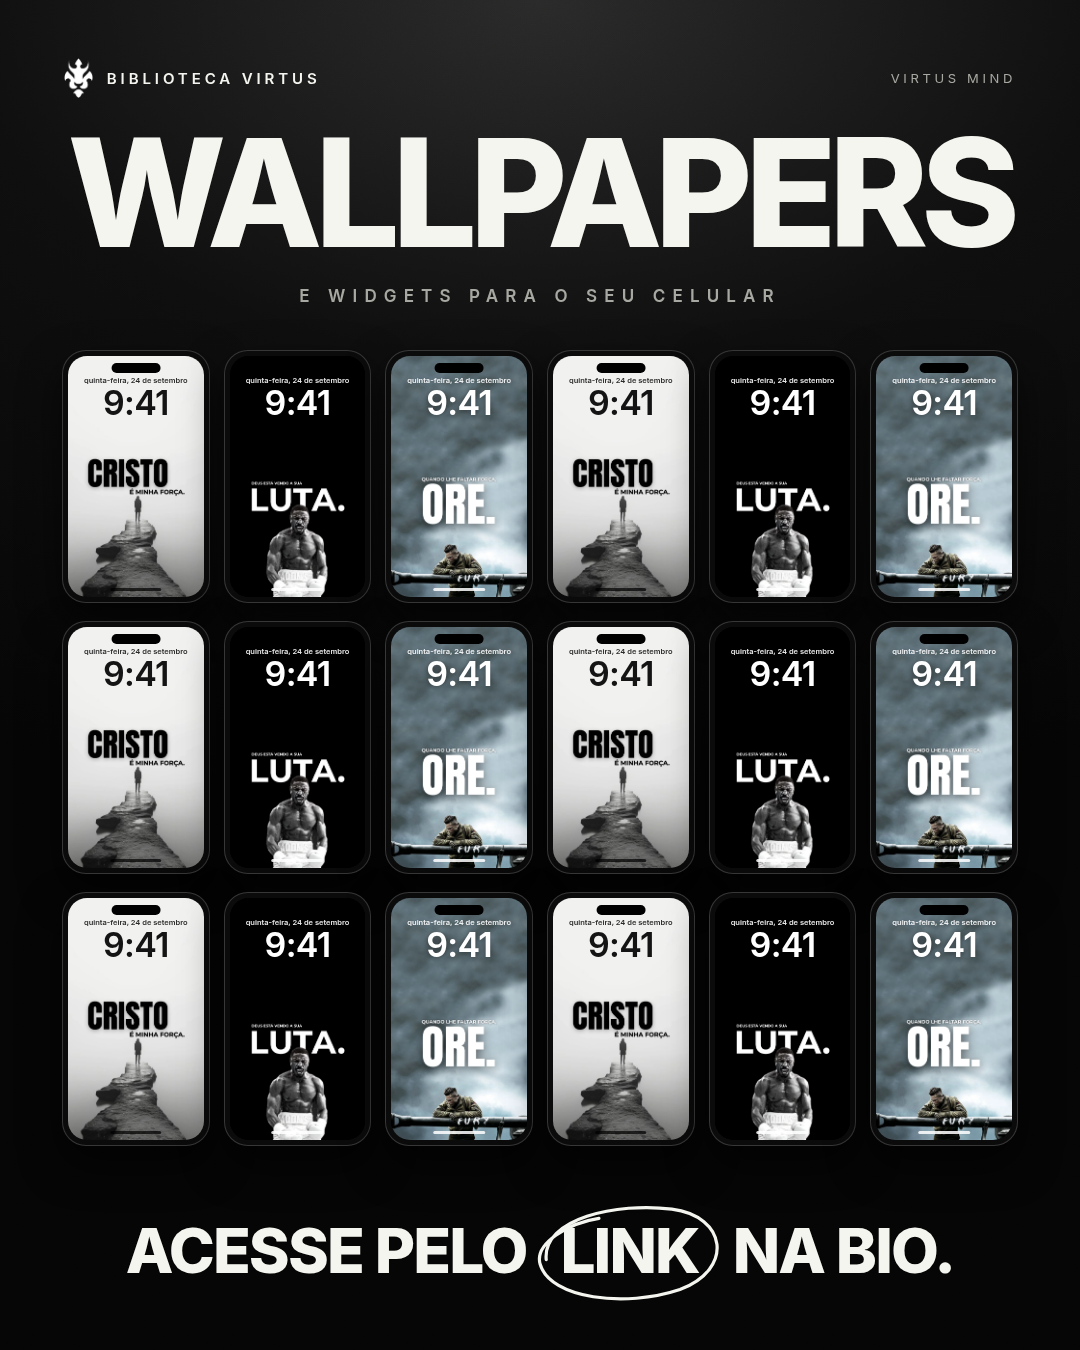
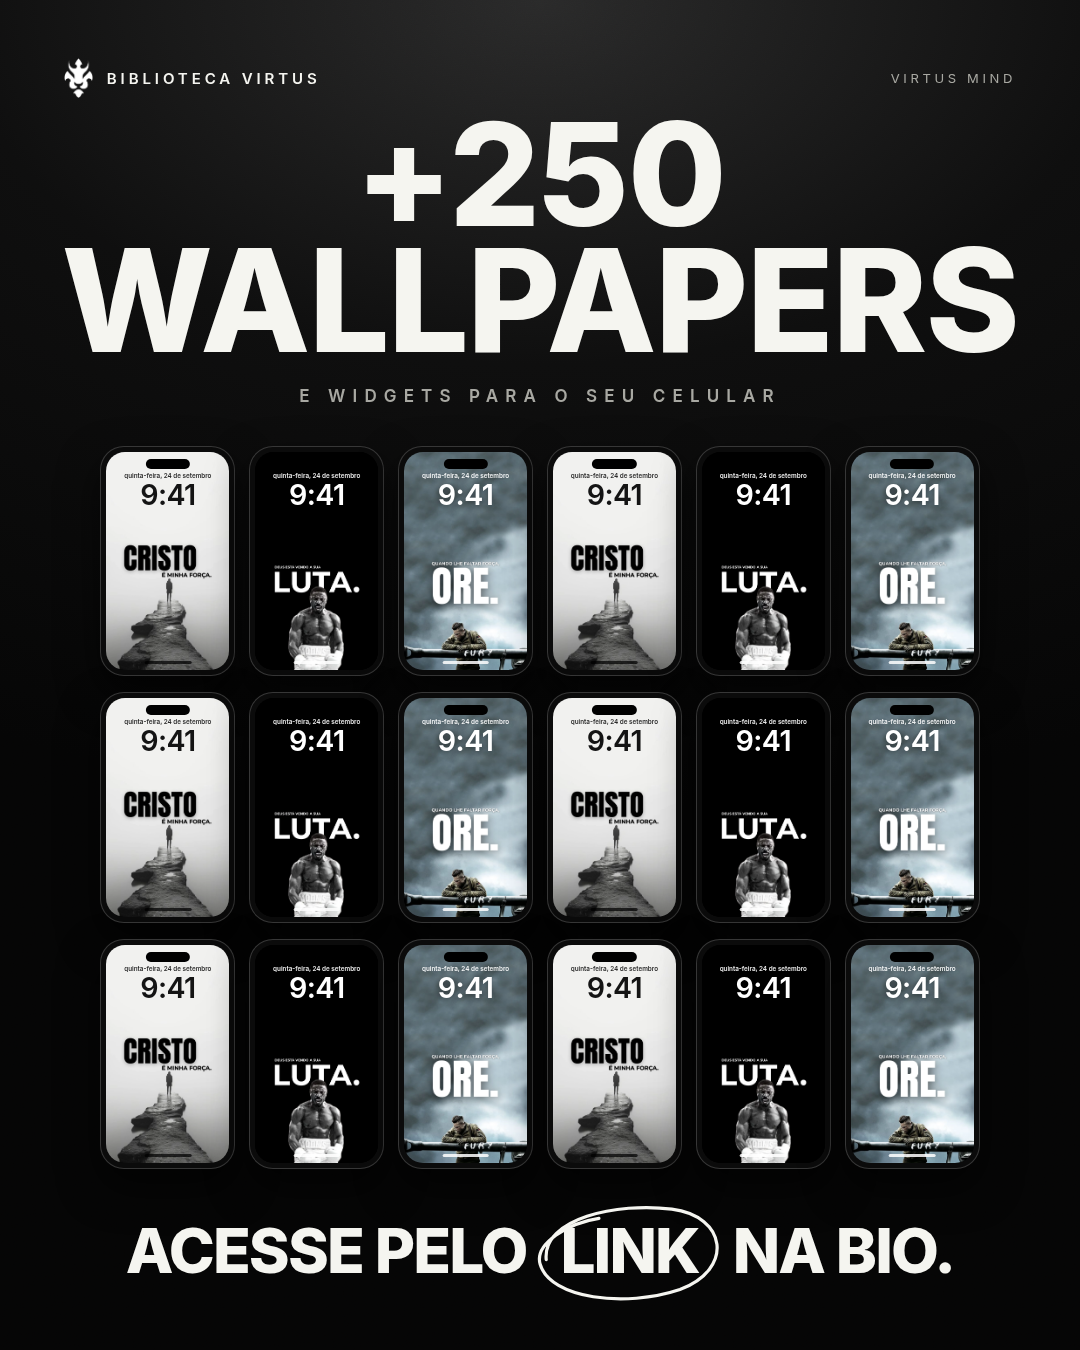
CTA: titulo em duas linhas (+250 / WALLPAPERS) e grade que se ajusta ao espaco
Claude-Session: https://claude.ai/code/session_01JgimbSFV2xdJc2vPBFfyRw

diff --git a/design/instagram/LEIA-ME.md b/design/instagram/LEIA-ME.md
@@ -11,4 +11,6 @@ node design/instagram/gerar-cta.mjs <pasta-com-wallpapers> <fundo.png ou -> <sai
 - As artes aparecem inteiras (9:16), sem corte; o relógio fica escuro sozinho
   quando o topo da arte é claro, como no iPhone.
 - `-` no lugar do fundo usa um degradê escuro provisório.
-- Título: use número só se for o total real da coleção (regra da marca).
+- Título: use `\n` para quebrar linha (ex.: `'+250\nWALLPAPERS'`); as linhas ficam com o
+  mesmo tamanho, o maior que couber. Número só se for o total real da coleção.
+- A grade (6 × 3) se ajusta sozinha ao espaço entre o título e a chamada.
